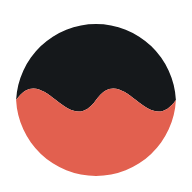
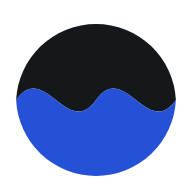
feat(brand): волна знака — чернильно-синяя вместо коралловой
Коралл совпадал по значению с --danger: логотип и «ошибка» были одного цвета.
Синий снимает коллизию и остаётся единственным местом, где он встречается —
палитра интерфейса остаётся зелёно-янтарной.

- токен --brand-coral переименован в --brand-blue (#2451D6)
- перекрашены logo, logo-inverse, mark, mark-inverse, favicon.svg
- favicon.png, icon-192.png и apple-touch-icon.png пересобраны из mark.svg
- mark-mono.svg не тронут: он одноцветный, красится через currentColor
- brand/README.md: таблица цветов и оговорка, что синий живёт только в знаке

Claude-Session: https://claude.ai/code/session_01VF2KCKLbA2tzKbHzeCXMsR

Changed region(s): [[0.0625, 0.4375, 0.9375, 0.9375]]

diff --git a/src/Flow.Client/wwwroot/css/tokens.css b/src/Flow.Client/wwwroot/css/tokens.css
@@ -85,10 +85,11 @@
     --on-accent: #0C3B2E;
 
     /* Бренд: знак Flow (Components/BrandMark.razor, комплект — wwwroot/brand/).
-       Коралл сейчас совпадает с --danger, но токен отдельный: семантику ошибки
-       можно перекрасить, не трогая логотип, и наоборот. */
+       Единственный синий в проекте и единственное место, где он допустим: палитра
+       интерфейса остаётся зелёно-янтарной. Токены отдельные, чтобы правка знака
+       не задевала --accent, и наоборот. */
     --brand-ink: #15181B;
-    --brand-coral: #E2604F;
+    --brand-blue: #2451D6;
 
     --sage: #6D9773;
     --tan: #BB8A52;

diff --git a/src/Flow.Client/wwwroot/brand/README.md b/src/Flow.Client/wwwroot/brand/README.md
@@ -1,6 +1,6 @@
 # Знак Flow
 
-Круг, разрезанный волной: верхняя доля — чернильная масса, нижняя — коралловая.
+Круг, разрезанный волной: верхняя доля — чернильная масса, нижняя — синяя.
 Граница между ними единственная линия во всём знаке, поэтому он не рассыпается
 на 16 px и остаётся узнаваемым как favicon.
 
@@ -27,11 +27,13 @@ iOS не умеет прозрачность). Пересобираются из
 | Токен | Значение | Роль |
 | --- | --- | --- |
 | `--brand-ink` | `#15181B` | верхняя доля на светлом фоне |
-| `--brand-coral` | `#E2604F` | нижняя доля, всегда |
+| `--brand-blue` | `#2451D6` | нижняя доля, всегда |
 | — | `#F2F2EF` | верхняя доля на тёмном фоне |
 
-Коралл сейчас совпадает с `--danger`. Токены разведены намеренно: если семантику
-ошибки понадобится перекрасить, логотип останется на месте.
+Палитра интерфейса остаётся зелёно-янтарной (`--bg-deep`, `--accent`): знак —
+единственное место в проекте, где появляется синий, и добавлять его куда-то ещё
+не нужно. Токены разведены с `--accent` намеренно, чтобы правка одного не задевала
+другое.
 
 ## Геометрия
 
